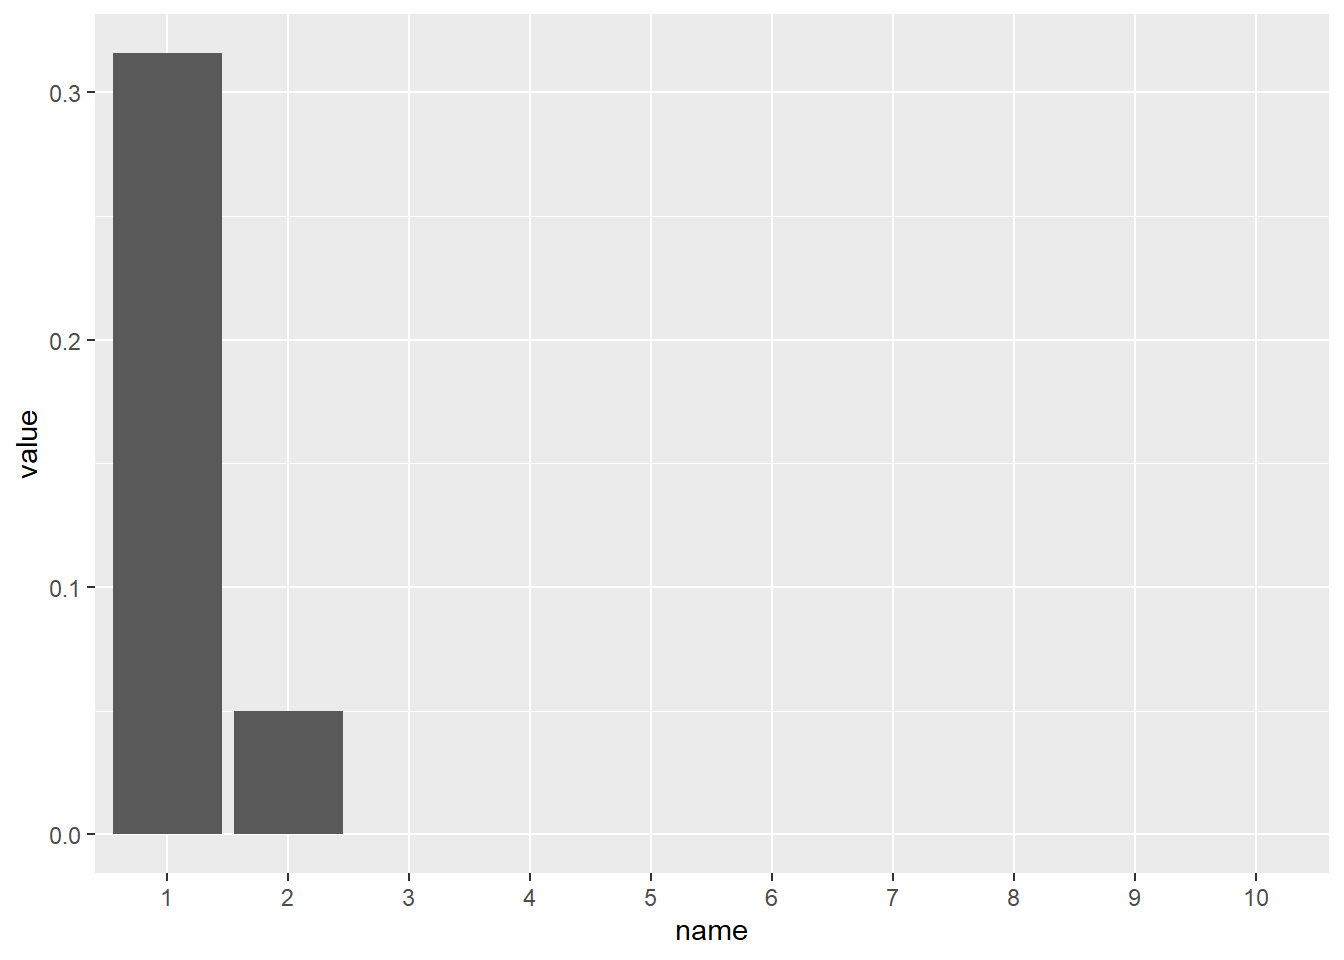
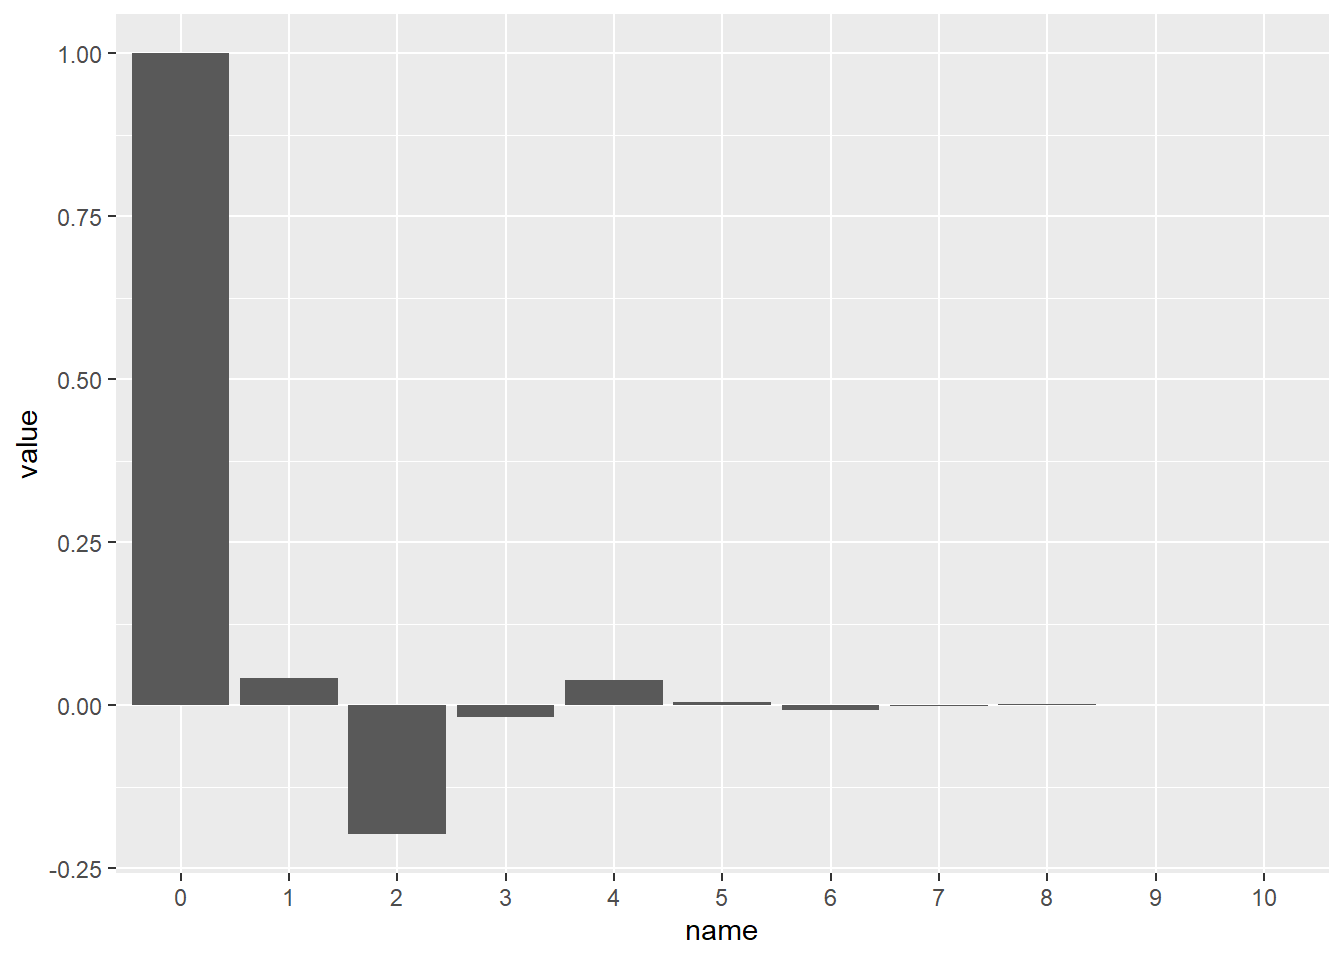
web changes

diff --git a/docs/Cvicenie2.html b/docs/Cvicenie2.html
@@ -928,11 +928,17 @@ Zoom: <img src="Cvicenie2_files/figure-html/unnamed-chunk-42-1.png" width="672" 
 <div class="sourceCode" id="cb40"><pre class="sourceCode r"><code class="sourceCode r"><a class="sourceLine" id="cb40-1" title="1">rho &lt;-<span class="st"> </span><span class="kw">rep</span>(<span class="dv">0</span>, <span class="dt">times=</span><span class="dv">10</span>)</a>
 <a class="sourceLine" id="cb40-2" title="2">rho &lt;-<span class="st"> </span>....                   <span class="co"># prve tri zlozky ako riesenie sustavy</span></a>
 <a class="sourceLine" id="cb40-3" title="3"><span class="cf">for</span> (i <span class="cf">in</span> <span class="dv">4</span><span class="op">:</span><span class="dv">10</span>) rho[i] &lt;-<span class="st"> </span>... <span class="co"># z diferencnej rovnice</span></a></code></pre></div>
+<pre><code>##  [1] 0.9178082 0.7602740 0.6061644 0.4845890 0.3940068 0.3245719 0.2685702
+##  [8] 0.2219991 0.1830569 0.1507001</code></pre>
 </div>
 <div id="funkcia-v-r-ku" class="section level2">
 <h2><span class="header-section-number">7.2</span> Funkcia v R-ku</h2>
 <p>Použite funkciu <code>ARMAacf</code> pre náš proces</p>
-<div class="sourceCode" id="cb41"><pre class="sourceCode r"><code class="sourceCode r"><a class="sourceLine" id="cb41-1" title="1"><span class="kw">ARMAacf</span>(<span class="dt">ar=</span><span class="kw">c</span>(...), <span class="dt">lag.max=</span><span class="dv">10</span>)</a></code></pre></div>
+<div class="sourceCode" id="cb42"><pre class="sourceCode r"><code class="sourceCode r"><a class="sourceLine" id="cb42-1" title="1"><span class="kw">ARMAacf</span>(<span class="dt">ar=</span><span class="kw">c</span>(...), <span class="dt">lag.max=</span><span class="dv">10</span>)</a></code></pre></div>
+<pre><code>##         0         1         2         3         4         5         6         7 
+## 1.0000000 0.9178082 0.7602740 0.6061644 0.4845890 0.3940068 0.3245719 0.2685702 
+##         8         9        10 
+## 0.2219991 0.1830569 0.1507001</code></pre>
 <p>a porovnajte výsledky z oboch postupov. Funkcia <code>ARMAacf</code> by už nemala byť “čiernou skrinkou” ;-)</p>
 </div>
 </div>
@@ -948,7 +954,7 @@ Zoom: <img src="Cvicenie2_files/figure-html/unnamed-chunk-42-1.png" width="672" 
 <div id="výpočet-v-r-ku" class="section level2">
 <h2><span class="header-section-number">8.2</span> Výpočet v R-ku</h2>
 <p>Nájdeme autokorelačnú funkciu AR(3) procesu <span class="math display">\[x_t=1.5x_{t−1}−0.8x_{t−2}+0.2x_{t−3}+u_t,\]</span> Podobne ako v prípade ACF, aj teraz použijeme funkciu <code>ARMAacf</code>, ale pridáme parameter <code>pacf=TRUE</code>:</p>
-<div class="sourceCode" id="cb42"><pre class="sourceCode r"><code class="sourceCode r"><a class="sourceLine" id="cb42-1" title="1"><span class="kw">ARMAacf</span>(<span class="dt">ar=</span><span class="kw">c</span>(...), <span class="dt">lag.max=</span><span class="dv">10</span>, <span class="dt">pacf=</span><span class="ot">TRUE</span>)</a></code></pre></div>
+<div class="sourceCode" id="cb44"><pre class="sourceCode r"><code class="sourceCode r"><a class="sourceLine" id="cb44-1" title="1"><span class="kw">ARMAacf</span>(<span class="dt">ar=</span><span class="kw">c</span>(...), <span class="dt">lag.max=</span><span class="dv">10</span>, <span class="dt">pacf=</span><span class="ot">TRUE</span>)</a></code></pre></div>
 </div>
 <div id="kontrolná-otázka" class="section level2">
 <h2><span class="header-section-number">8.3</span> Kontrolná otázka</h2>
@@ -959,33 +965,33 @@ Zoom: <img src="Cvicenie2_files/figure-html/unnamed-chunk-42-1.png" width="672" 
 <li><p>majú hodnoty, ktoré konvergujú k nule, ale neexistuje index, od ktorého by boli nulové?</p></li>
 </ul>
 <p><strong>Príklad 1</strong></p>
-<div class="sourceCode" id="cb43"><pre class="sourceCode r"><code class="sourceCode r"><a class="sourceLine" id="cb43-1" title="1">acf.pr1 &lt;-<span class="st"> </span><span class="kw">ARMAacf</span>(<span class="dt">ar=</span><span class="kw">c</span>(<span class="fl">0.05</span>,<span class="op">-</span><span class="fl">0.2</span>), <span class="dt">lag.max=</span><span class="dv">10</span>)</a>
-<a class="sourceLine" id="cb43-2" title="2">acf.pr1</a></code></pre></div>
+<div class="sourceCode" id="cb45"><pre class="sourceCode r"><code class="sourceCode r"><a class="sourceLine" id="cb45-1" title="1">acf.pr1 &lt;-<span class="st"> </span><span class="kw">ARMAacf</span>(<span class="dt">ar=</span><span class="kw">c</span>(<span class="fl">0.05</span>,<span class="op">-</span><span class="fl">0.2</span>), <span class="dt">lag.max=</span><span class="dv">10</span>)</a>
+<a class="sourceLine" id="cb45-2" title="2">acf.pr1</a></code></pre></div>
 <pre><code>##             0             1             2             3             4 
 ##  1.0000000000  0.0416666667 -0.1979166667 -0.0182291667  0.0386718750 
 ##             5             6             7             8             9 
 ##  0.0055794271 -0.0074554036 -0.0014886556  0.0014166479  0.0003685635 
 ##            10 
 ## -0.0002649014</code></pre>
-<div class="sourceCode" id="cb45"><pre class="sourceCode r"><code class="sourceCode r"><a class="sourceLine" id="cb45-1" title="1">acf.pr1 &lt;-<span class="st"> </span><span class="kw">data.frame</span>(</a>
-<a class="sourceLine" id="cb45-2" title="2">  <span class="dt">name=</span> <span class="kw">as.factor</span>(<span class="kw">as.numeric</span>(<span class="kw">names</span>(acf.pr1))) ,  </a>
-<a class="sourceLine" id="cb45-3" title="3">  <span class="dt">value=</span> acf.pr1 )</a>
-<a class="sourceLine" id="cb45-4" title="4"></a>
-<a class="sourceLine" id="cb45-5" title="5"><span class="kw">ggplot</span>(<span class="dt">data=</span> acf.pr1, <span class="kw">aes</span>(<span class="dt">x =</span> name, <span class="dt">y =</span> value))<span class="op">+</span></a>
-<a class="sourceLine" id="cb45-6" title="6"><span class="kw">geom_bar</span>(<span class="dt">stat =</span> <span class="st">&quot;identity&quot;</span>)</a></code></pre></div>
-<p><img src="Cvicenie2_files/figure-html/unnamed-chunk-48-1.png" width="672" /></p>
+<div class="sourceCode" id="cb47"><pre class="sourceCode r"><code class="sourceCode r"><a class="sourceLine" id="cb47-1" title="1">acf.pr1 &lt;-<span class="st"> </span><span class="kw">data.frame</span>(</a>
+<a class="sourceLine" id="cb47-2" title="2">  <span class="dt">name=</span> <span class="kw">as.factor</span>(<span class="kw">as.numeric</span>(<span class="kw">names</span>(acf.pr1))) ,  </a>
+<a class="sourceLine" id="cb47-3" title="3">  <span class="dt">value=</span> acf.pr1 )</a>
+<a class="sourceLine" id="cb47-4" title="4"></a>
+<a class="sourceLine" id="cb47-5" title="5"><span class="kw">ggplot</span>(<span class="dt">data=</span> acf.pr1, <span class="kw">aes</span>(<span class="dt">x =</span> name, <span class="dt">y =</span> value))<span class="op">+</span></a>
+<a class="sourceLine" id="cb47-6" title="6"><span class="kw">geom_bar</span>(<span class="dt">stat =</span> <span class="st">&quot;identity&quot;</span>)</a></code></pre></div>
+<p><img src="Cvicenie2_files/figure-html/unnamed-chunk-50-1.png" width="672" /></p>
 <p><strong>Príklad 2</strong></p>
-<div class="sourceCode" id="cb46"><pre class="sourceCode r"><code class="sourceCode r"><a class="sourceLine" id="cb46-1" title="1">pacf.pr1 &lt;-<span class="kw">ARMAacf</span>(<span class="dt">ar=</span><span class="kw">c</span>(<span class="fl">0.3</span>,<span class="fl">0.05</span>), <span class="dt">lag.max=</span><span class="dv">10</span>, <span class="dt">pacf=</span><span class="ot">TRUE</span>)</a>
-<a class="sourceLine" id="cb46-2" title="2">pacf.pr1</a></code></pre></div>
+<div class="sourceCode" id="cb48"><pre class="sourceCode r"><code class="sourceCode r"><a class="sourceLine" id="cb48-1" title="1">pacf.pr1 &lt;-<span class="kw">ARMAacf</span>(<span class="dt">ar=</span><span class="kw">c</span>(<span class="fl">0.3</span>,<span class="fl">0.05</span>), <span class="dt">lag.max=</span><span class="dv">10</span>, <span class="dt">pacf=</span><span class="ot">TRUE</span>)</a>
+<a class="sourceLine" id="cb48-2" title="2">pacf.pr1</a></code></pre></div>
 <pre><code>##  [1]  3.157895e-01  5.000000e-02 -3.863413e-18  3.927096e-19 -4.622862e-19
 ##  [6] -1.450362e-19 -4.829267e-20  6.640242e-20  5.131096e-20 -2.263719e-20</code></pre>
-<div class="sourceCode" id="cb48"><pre class="sourceCode r"><code class="sourceCode r"><a class="sourceLine" id="cb48-1" title="1">pacf.pr1 &lt;-<span class="st"> </span><span class="kw">data.frame</span>(</a>
-<a class="sourceLine" id="cb48-2" title="2">  <span class="dt">name=</span> <span class="kw">as.factor</span>(<span class="dv">1</span><span class="op">:</span><span class="kw">length</span>(pacf.pr1)) ,  </a>
-<a class="sourceLine" id="cb48-3" title="3">  <span class="dt">value=</span> pacf.pr1 )</a>
-<a class="sourceLine" id="cb48-4" title="4"></a>
-<a class="sourceLine" id="cb48-5" title="5"><span class="kw">ggplot</span>(<span class="dt">data=</span> pacf.pr1, <span class="kw">aes</span>(<span class="dt">x =</span> name, <span class="dt">y =</span> value))<span class="op">+</span></a>
-<a class="sourceLine" id="cb48-6" title="6"><span class="kw">geom_bar</span>(<span class="dt">stat =</span> <span class="st">&quot;identity&quot;</span>)</a></code></pre></div>
-<p><img src="Cvicenie2_files/figure-html/unnamed-chunk-50-1.png" width="672" /></p>
+<div class="sourceCode" id="cb50"><pre class="sourceCode r"><code class="sourceCode r"><a class="sourceLine" id="cb50-1" title="1">pacf.pr1 &lt;-<span class="st"> </span><span class="kw">data.frame</span>(</a>
+<a class="sourceLine" id="cb50-2" title="2">  <span class="dt">name=</span> <span class="kw">as.factor</span>(<span class="dv">1</span><span class="op">:</span><span class="kw">length</span>(pacf.pr1)) ,  </a>
+<a class="sourceLine" id="cb50-3" title="3">  <span class="dt">value=</span> pacf.pr1 )</a>
+<a class="sourceLine" id="cb50-4" title="4"></a>
+<a class="sourceLine" id="cb50-5" title="5"><span class="kw">ggplot</span>(<span class="dt">data=</span> pacf.pr1, <span class="kw">aes</span>(<span class="dt">x =</span> name, <span class="dt">y =</span> value))<span class="op">+</span></a>
+<a class="sourceLine" id="cb50-6" title="6"><span class="kw">geom_bar</span>(<span class="dt">stat =</span> <span class="st">&quot;identity&quot;</span>)</a></code></pre></div>
+<p><img src="Cvicenie2_files/figure-html/unnamed-chunk-52-1.png" width="672" /></p>
 </div>
 <div id="výberová-pacf-z-dát" class="section level2">
 <h2><span class="header-section-number">8.4</span> Výberová PACF z dát</h2>
@@ -993,14 +999,14 @@ Zoom: <img src="Cvicenie2_files/figure-html/unnamed-chunk-42-1.png" width="672" 
 <ul>
 <li>pomocou funkcie <code>acf2</code> z knižnice astsa vykresliť naraz výberovú ACF aj PACF (tu bude mať navyše ACF odstránenú hodnotu pre lag 0, ktorá sa vždy rovná 1)</li>
 </ul>
-<div class="sourceCode" id="cb49"><pre class="sourceCode r"><code class="sourceCode r"><a class="sourceLine" id="cb49-1" title="1">x &lt;-<span class="st"> </span><span class="kw">rnorm</span>(<span class="dv">100</span>)</a>
-<a class="sourceLine" id="cb49-2" title="2"></a>
-<a class="sourceLine" id="cb49-3" title="3"><span class="co"># moznost 1</span></a>
-<a class="sourceLine" id="cb49-4" title="4"><span class="kw">pacf</span>(x)</a></code></pre></div>
-<p><img src="Cvicenie2_files/figure-html/unnamed-chunk-51-1.png" width="672" /></p>
-<div class="sourceCode" id="cb50"><pre class="sourceCode r"><code class="sourceCode r"><a class="sourceLine" id="cb50-1" title="1"><span class="co"># moznost 2</span></a>
-<a class="sourceLine" id="cb50-2" title="2"><span class="kw">acf2</span>(x)</a></code></pre></div>
-<p><img src="Cvicenie2_files/figure-html/unnamed-chunk-52-1.png" width="672" /></p>
+<div class="sourceCode" id="cb51"><pre class="sourceCode r"><code class="sourceCode r"><a class="sourceLine" id="cb51-1" title="1">x &lt;-<span class="st"> </span><span class="kw">rnorm</span>(<span class="dv">100</span>)</a>
+<a class="sourceLine" id="cb51-2" title="2"></a>
+<a class="sourceLine" id="cb51-3" title="3"><span class="co"># moznost 1</span></a>
+<a class="sourceLine" id="cb51-4" title="4"><span class="kw">pacf</span>(x)</a></code></pre></div>
+<p><img src="Cvicenie2_files/figure-html/unnamed-chunk-53-1.png" width="672" /></p>
+<div class="sourceCode" id="cb52"><pre class="sourceCode r"><code class="sourceCode r"><a class="sourceLine" id="cb52-1" title="1"><span class="co"># moznost 2</span></a>
+<a class="sourceLine" id="cb52-2" title="2"><span class="kw">acf2</span>(x)</a></code></pre></div>
+<p><img src="Cvicenie2_files/figure-html/unnamed-chunk-54-1.png" width="672" /></p>
 <pre><code>##       [,1]  [,2] [,3]  [,4] [,5]  [,6] [,7] [,8]  [,9] [,10] [,11] [,12] [,13]
 ## ACF  -0.09 -0.13 0.04 -0.20 0.08 -0.18 0.02 0.15 -0.06  0.17 -0.13 -0.03  0.14
 ## PACF -0.09 -0.14 0.01 -0.22 0.05 -0.25 0.01 0.03 -0.01  0.12 -0.11  0.02  0.08
@@ -1015,7 +1021,7 @@ Zoom: <img src="Cvicenie2_files/figure-html/unnamed-chunk-42-1.png" width="672" 
 <h2><span class="header-section-number">9.1</span> Stacionarita a parameter procesu</h2>
 <p><strong>Zadanie:</strong> Urcte všetky hodnoty parametra <code>k</code>, pre ktoré je stacionárny AR(2) proces <span class="math inline">\(x_t=x_{t−1}+kx_{t−2}+u_t\)</span>.</p>
 <p><strong>Skúsime najskôr numericky:</strong> Pre nejaký rozsah parametra <code>k</code> nájdeme absolútnu hodnotu koreňov (pomocou <code>polyroot</code>).</p>
-<p><img src="Cvicenie2_files/figure-html/unnamed-chunk-53-1.png" width="672" /></p>
+<p><img src="Cvicenie2_files/figure-html/unnamed-chunk-55-1.png" width="672" /></p>
 <p><strong>Otázky k nasledujúcemu obrázku:</strong></p>
 <ul>
 <li><p>Preco pre niektoré <code>k</code> je len jedna absolútna hodnota (napríklad <code>k = -1.5</code> - prerušovaná oranžová čiara), kým pre iné sú dve (<code>k = -0.2</code>,<code>k = 0.5</code> - prerušovaná zelená čiara)?</p></li>
@@ -1039,13 +1045,13 @@ Zoom: <img src="Cvicenie2_files/figure-html/unnamed-chunk-42-1.png" width="672" 
 <div id="simulačné-a-analytické-zistenie-podmienky-stacionarity-pre-ar2-proces" class="section level2">
 <h2><span class="header-section-number">9.3</span> Simulačné a analytické zistenie podmienky stacionarity pre AR(2) proces</h2>
 <p>Uvažujme proces <span class="math inline">\(x_t=δ+α_1x_{t−1}+α_2x_{t−2}+u_t\)</span>. Má dva paramametre, takže ich môžeme znázorniť do roviny a odlíšiť tie, ktoré zodpovedajú stacionárnemu a tie, ktoré zodpovedajú nestacionárnemu AR(2) procesu.</p>
-<div class="sourceCode" id="cb52"><pre class="sourceCode r"><code class="sourceCode r"><a class="sourceLine" id="cb52-1" title="1">n &lt;-<span class="st"> </span><span class="dv">100</span>          <span class="co"># najskor menej, po odladeni napr. týchto 2000</span></a>
-<a class="sourceLine" id="cb52-2" title="2"><span class="kw">set.seed</span>(<span class="dv">123</span>)</a>
-<a class="sourceLine" id="cb52-3" title="3">alpha1 &lt;-<span class="st"> </span><span class="kw">runif</span>(n, <span class="dt">min =</span> <span class="fl">-2.5</span>, <span class="dt">max =</span> <span class="fl">2.5</span>) <span class="co"># rovnomerne na (min, max)</span></a>
-<a class="sourceLine" id="cb52-4" title="4">alpha2 &lt;-<span class="st"> </span><span class="kw">runif</span>(n, <span class="dt">min =</span> <span class="fl">-2.5</span>, <span class="dt">max =</span> <span class="fl">2.5</span>)</a>
-<a class="sourceLine" id="cb52-5" title="5">stationary &lt;-<span class="st"> </span><span class="kw">rep</span>(<span class="ot">NA</span>,n)</a>
-<a class="sourceLine" id="cb52-6" title="6">df &lt;-<span class="st"> </span><span class="kw">data.frame</span>(alpha1, alpha2, stationary)</a>
-<a class="sourceLine" id="cb52-7" title="7"><span class="kw">head</span>(df)</a></code></pre></div>
+<div class="sourceCode" id="cb54"><pre class="sourceCode r"><code class="sourceCode r"><a class="sourceLine" id="cb54-1" title="1">n &lt;-<span class="st"> </span><span class="dv">100</span>          <span class="co"># najskor menej, po odladeni napr. týchto 2000</span></a>
+<a class="sourceLine" id="cb54-2" title="2"><span class="kw">set.seed</span>(<span class="dv">123</span>)</a>
+<a class="sourceLine" id="cb54-3" title="3">alpha1 &lt;-<span class="st"> </span><span class="kw">runif</span>(n, <span class="dt">min =</span> <span class="fl">-2.5</span>, <span class="dt">max =</span> <span class="fl">2.5</span>) <span class="co"># rovnomerne na (min, max)</span></a>
+<a class="sourceLine" id="cb54-4" title="4">alpha2 &lt;-<span class="st"> </span><span class="kw">runif</span>(n, <span class="dt">min =</span> <span class="fl">-2.5</span>, <span class="dt">max =</span> <span class="fl">2.5</span>)</a>
+<a class="sourceLine" id="cb54-5" title="5">stationary &lt;-<span class="st"> </span><span class="kw">rep</span>(<span class="ot">NA</span>,n)</a>
+<a class="sourceLine" id="cb54-6" title="6">df &lt;-<span class="st"> </span><span class="kw">data.frame</span>(alpha1, alpha2, stationary)</a>
+<a class="sourceLine" id="cb54-7" title="7"><span class="kw">head</span>(df)</a></code></pre></div>
 <pre><code>##       alpha1      alpha2 stationary
 ## 1 -1.0621124  0.49994480         NA
 ## 2  1.4415257 -0.83588230         NA
@@ -1054,19 +1060,19 @@ Zoom: <img src="Cvicenie2_files/figure-html/unnamed-chunk-42-1.png" width="672" 
 ## 5  2.2023364 -0.08548801         NA
 ## 6 -2.2722175  1.95175111         NA</code></pre>
 <p>Napíšte funkciu, ktorá rozhodne, či je AR(2) proces so zadanými parametrami stacionárny. Napríklad <code>stat.ar.2(c(1,1))</code> vráti <code>FALSE</code>.</p>
-<div class="sourceCode" id="cb54"><pre class="sourceCode r"><code class="sourceCode r"><a class="sourceLine" id="cb54-1" title="1">stat.ar<span class="fl">.2</span> &lt;-<span class="st"> </span><span class="cf">function</span>(koef) <span class="co"># doplnte definiciu funkcie</span></a>
-<a class="sourceLine" id="cb54-2" title="2">{</a>
-<a class="sourceLine" id="cb54-3" title="3">}</a></code></pre></div>
+<div class="sourceCode" id="cb56"><pre class="sourceCode r"><code class="sourceCode r"><a class="sourceLine" id="cb56-1" title="1">stat.ar<span class="fl">.2</span> &lt;-<span class="st"> </span><span class="cf">function</span>(koef) <span class="co"># doplnte definiciu funkcie</span></a>
+<a class="sourceLine" id="cb56-2" title="2">{</a>
+<a class="sourceLine" id="cb56-3" title="3">}</a></code></pre></div>
 <p>Nebudeme používať cyklus, ale využijeme funkciu <code>apply</code></p>
-<div class="sourceCode" id="cb55"><pre class="sourceCode r"><code class="sourceCode r"><a class="sourceLine" id="cb55-1" title="1"><span class="co"># Predpokladame fungujucu funkciu stac.ar.2, ktora ma ako vstup dvojzlozkovy vektor a vystup TRUE/FALSE</span></a>
-<a class="sourceLine" id="cb55-2" title="2"></a>
-<a class="sourceLine" id="cb55-3" title="3"><span class="kw">apply</span>(df[, <span class="dv">1</span><span class="op">:</span><span class="dv">2</span>],        <span class="co"># vstupne data = 1. a 2. stlpec df</span></a>
-<a class="sourceLine" id="cb55-4" title="4">      <span class="dt">MARGIN =</span> <span class="dv">1</span>,        <span class="co"># znamena, ze sa budu brat po riadkoch</span></a>
-<a class="sourceLine" id="cb55-5" title="5">      <span class="dt">FUN =</span> stac.ar<span class="fl">.2</span>)   <span class="co"># aplikuje sa funkcia stac.ar.2</span></a></code></pre></div>
+<div class="sourceCode" id="cb57"><pre class="sourceCode r"><code class="sourceCode r"><a class="sourceLine" id="cb57-1" title="1"><span class="co"># Predpokladame fungujucu funkciu stac.ar.2, ktora ma ako vstup dvojzlozkovy vektor a vystup TRUE/FALSE</span></a>
+<a class="sourceLine" id="cb57-2" title="2"></a>
+<a class="sourceLine" id="cb57-3" title="3"><span class="kw">apply</span>(df[, <span class="dv">1</span><span class="op">:</span><span class="dv">2</span>],        <span class="co"># vstupne data = 1. a 2. stlpec df</span></a>
+<a class="sourceLine" id="cb57-4" title="4">      <span class="dt">MARGIN =</span> <span class="dv">1</span>,        <span class="co"># znamena, ze sa budu brat po riadkoch</span></a>
+<a class="sourceLine" id="cb57-5" title="5">      <span class="dt">FUN =</span> stac.ar<span class="fl">.2</span>)   <span class="co"># aplikuje sa funkcia stac.ar.2</span></a></code></pre></div>
 <p>Potom môžeme pomocou knižnice `ggplot2 kresliť:</p>
-<div class="sourceCode" id="cb56"><pre class="sourceCode r"><code class="sourceCode r"><a class="sourceLine" id="cb56-1" title="1"><span class="kw">qplot</span>(alpha1, alpha2, <span class="dt">colour=</span>stationary, <span class="dt">data=</span>df)<span class="op">+</span></a>
-<a class="sourceLine" id="cb56-2" title="2"><span class="st">  </span><span class="kw">scale_color_manual</span>(<span class="dt">values =</span> <span class="kw">c</span>(<span class="st">&quot;#D55E00&quot;</span>,<span class="st">&quot;#009E73&quot;</span>))</a></code></pre></div>
-<p><img src="Cvicenie2_files/figure-html/unnamed-chunk-59-1.png" width="672" style="display: block; margin: auto;" /></p>
+<div class="sourceCode" id="cb58"><pre class="sourceCode r"><code class="sourceCode r"><a class="sourceLine" id="cb58-1" title="1"><span class="kw">qplot</span>(alpha1, alpha2, <span class="dt">colour=</span>stationary, <span class="dt">data=</span>df)<span class="op">+</span></a>
+<a class="sourceLine" id="cb58-2" title="2"><span class="st">  </span><span class="kw">scale_color_manual</span>(<span class="dt">values =</span> <span class="kw">c</span>(<span class="st">&quot;#D55E00&quot;</span>,<span class="st">&quot;#009E73&quot;</span>))</a></code></pre></div>
+<p><img src="Cvicenie2_files/figure-html/unnamed-chunk-61-1.png" width="672" style="display: block; margin: auto;" /></p>
 <p>Sformulujte tvrdenie o podmienke stacionarity AR(2) procesu (dá sa vyjadriť pomocou troch nerovností pre parametre, ktoré musia súčasne platiť) a dokážte ho. Z grafu môžeme získať hypotézu, ako vyzerá podmienka stacionarity pre AR(2) proces a následne sa ju snažiť dokázať. Alebo ho môžeme použiť ako skúšku správnosti našich výpočtov.</p>
 </div>
 <div id="hľadanie-vhodného-autoregresného-modelu-pre-zadané-dáta" class="section level2">
@@ -1083,15 +1089,15 @@ Zoom: <img src="Cvicenie2_files/figure-html/unnamed-chunk-42-1.png" width="672" 
 <div id="ceny-benzínu" class="section level2">
 <h2><span class="header-section-number">9.5</span> Ceny benzínu</h2>
 <p>Dáta z knižnice <code>astsa</code>, z popisu v helpe: <em>New York Harbor conventional regular gasoline weekly spot price FOB (in cents per gallon) from 2000 to mid-2010</em>. Zoberieme dáta od roku 2006.</p>
-<div class="sourceCode" id="cb57"><pre class="sourceCode r"><code class="sourceCode r"><a class="sourceLine" id="cb57-1" title="1">gas &lt;-<span class="st"> </span>astsa<span class="op">::</span>gas</a>
-<a class="sourceLine" id="cb57-2" title="2">x &lt;-<span class="st"> </span><span class="kw">window</span>(gas, <span class="dt">start=</span><span class="kw">c</span>(<span class="dv">2006</span>,<span class="dv">1</span>))</a></code></pre></div>
+<div class="sourceCode" id="cb59"><pre class="sourceCode r"><code class="sourceCode r"><a class="sourceLine" id="cb59-1" title="1">gas &lt;-<span class="st"> </span>astsa<span class="op">::</span>gas</a>
+<a class="sourceLine" id="cb59-2" title="2">x &lt;-<span class="st"> </span><span class="kw">window</span>(gas, <span class="dt">start=</span><span class="kw">c</span>(<span class="dv">2006</span>,<span class="dv">1</span>))</a></code></pre></div>
 <p>Nájdite model pre premennú <code>x</code> tak, že budete jej diferencie modelovať AR procesom.</p>
 </div>
 <div id="indikátor-od-boxa-a-jenkinsa" class="section level2">
 <h2><span class="header-section-number">9.6</span> Indikátor od Boxa a Jenkinsa</h2>
 <p>Dáta z knižnice <code>astsa</code>, z popisu v helpe: <em>Leading indicator, 150 months; taken from Box and Jenkins (1970)</em>.</p>
-<div class="sourceCode" id="cb58"><pre class="sourceCode r"><code class="sourceCode r"><a class="sourceLine" id="cb58-1" title="1">lead &lt;-<span class="st"> </span>astsa<span class="op">::</span>lead</a>
-<a class="sourceLine" id="cb58-2" title="2">x &lt;-<span class="st"> </span>lead</a></code></pre></div>
+<div class="sourceCode" id="cb60"><pre class="sourceCode r"><code class="sourceCode r"><a class="sourceLine" id="cb60-1" title="1">lead &lt;-<span class="st"> </span>astsa<span class="op">::</span>lead</a>
+<a class="sourceLine" id="cb60-2" title="2">x &lt;-<span class="st"> </span>lead</a></code></pre></div>
 <p>Nájdite model pre premennú <code>x</code> tak, že budete jej diferencie modelovať AR procesom.</p>
 </div>
 <div id="nájdenie-procesu-s-danou-vlastnosťou" class="section level2">
